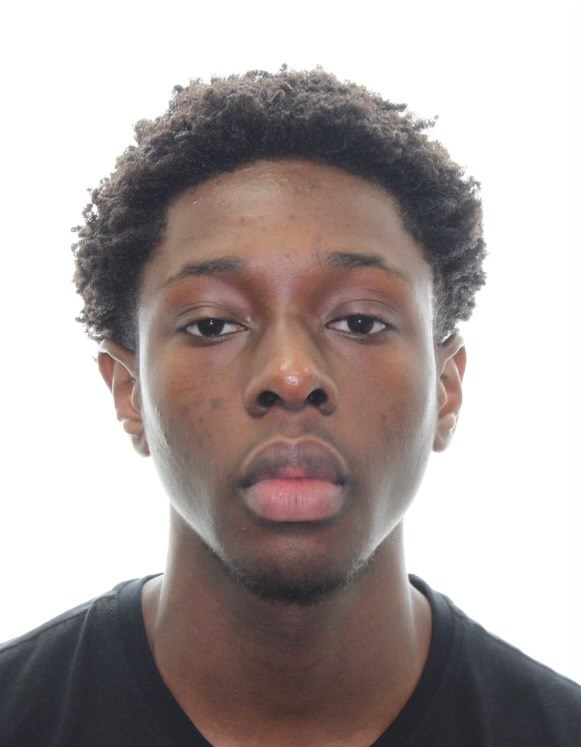
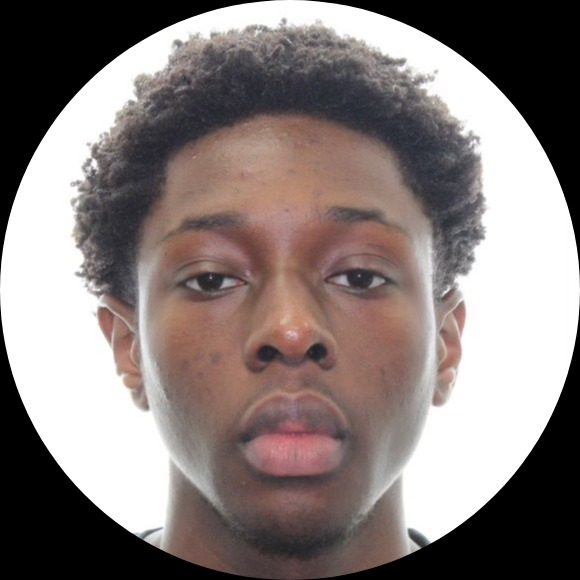
user profile aspect ratios have been fixed to be circular

diff --git a/src/sections/Reviews.jsx b/src/sections/Reviews.jsx
@@ -1,6 +1,6 @@
 import { clientReviews } from "../constants"
 import { useState } from "react"
-const Clients = () => {
+const Reviews = () => {
     const [pageNumber, setPageNumber] = useState(1)
 
     const handleNavigation = (direction) => {
@@ -34,15 +34,21 @@ const Clients = () => {
     }
 
     const getAverageRating = () => {
-            const average = clientReviews.reduce((prevTotal, review) => prevTotal + review.rating, 0)
-            console.log("Average: ", average)
-            return average / clientReviews.length
+        return (clientReviews.reduce((prevTotal, review) => prevTotal + review.rating, 0)) / clientReviews.length
+
+    }
+
+    const colourRating = () => {
+        const average = getAverageRating()
+        if (average >= 4) return 'text-green-500'
+        else if(average >= 3 && average < 4) return 'text-yellow-500'
+        else return 'text-red-500'
     }
 
   return (
-    <section className="c-space my-20" id="clients">
-        <h3 className="head-text">Hear from My Clients</h3>
-        <p className="font-semibold text-white-700">Average Rating: {getAverageRating().toFixed(1)}/5</p>
+    <section className="c-space my-20" id="reviews">
+        <h3 className="head-text">My Reviews</h3>
+        <p className="font-semibold text-white-700">Average Rating: <span className={colourRating()}>{getAverageRating().toFixed(1)}</span>/5</p>
         <div className="client-container">
             {clientReviews.slice(pageNumber * 4 - 4, pageNumber * 4).map(({id, name, review, img, position, link, rating}) => (
                 <div key={id} className="client-review">
@@ -78,4 +84,4 @@ const Clients = () => {
   )
 }
 
-export default Clients
+export default Reviews

diff --git a/src/sections/Projects.jsx b/src/sections/Projects.jsx
@@ -83,7 +83,7 @@ const Projects = () => {
         <div className="grid lg:grid-cols-2 grid-cols-1 mt-12 gap-5 w-full">
             <div className="flex flex-col gap-5 relative sm:p-10 py-10 px-5 shadow-2xl shadow-black-200">
                 <input type="text" name="search"
-                    placeholder="Search for a language, tool, framework, etc..." 
+                    placeholder="Search for a language, tool, framework, etc, then press enter to tag it" 
                     style={{position: 'relative', zIndex: 10 }} 
                     onChange={findProjects}
                     onKeyDown={setTagQuery}

diff --git a/src/App.jsx b/src/App.jsx
@@ -2,7 +2,7 @@ import Navbar from './sections/Navbar'
 import Hero from './sections/Hero'
 import About from './sections/About'
 import Projects from './sections/Projects'
-import Clients from './sections/Clients'
+import Reviews from './sections/Reviews'
 import Contact from './sections/Contact'
 import Footer from './sections/Footer'
 import Experience from './sections/Experience'
@@ -13,7 +13,7 @@ const App = () => {
       <Hero />
       <About />
       <Projects />
-      <Clients />
+      <Reviews />
       <Experience />
       <Contact />
       <Footer />

diff --git a/src/constants/index.js b/src/constants/index.js
@@ -16,8 +16,8 @@ export const navLinks = [
     },
     {
       id: 4,
-      name: 'Clients',
-      href: '#clients',
+      name: 'Reviews',
+      href: '#reviews',
     },
     {
       id: 5,
